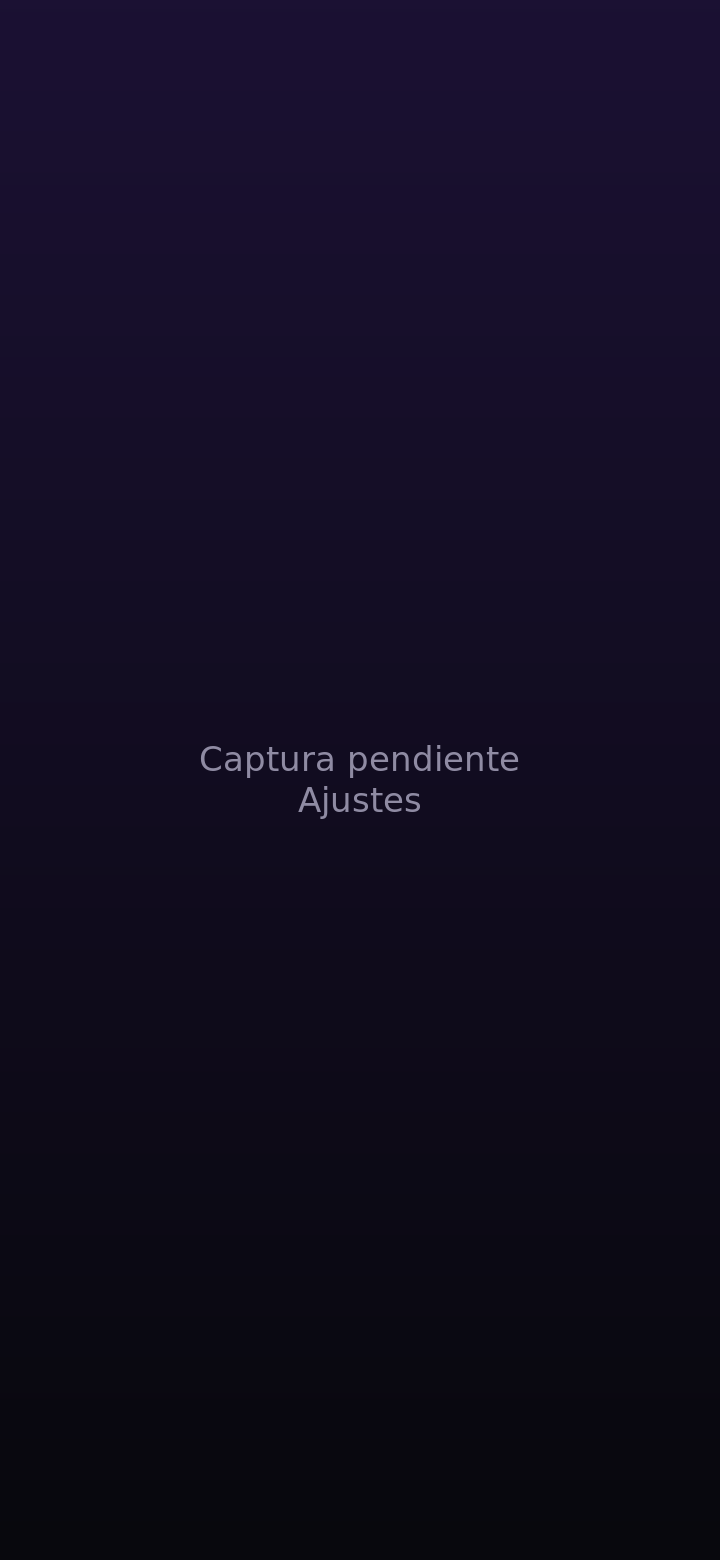
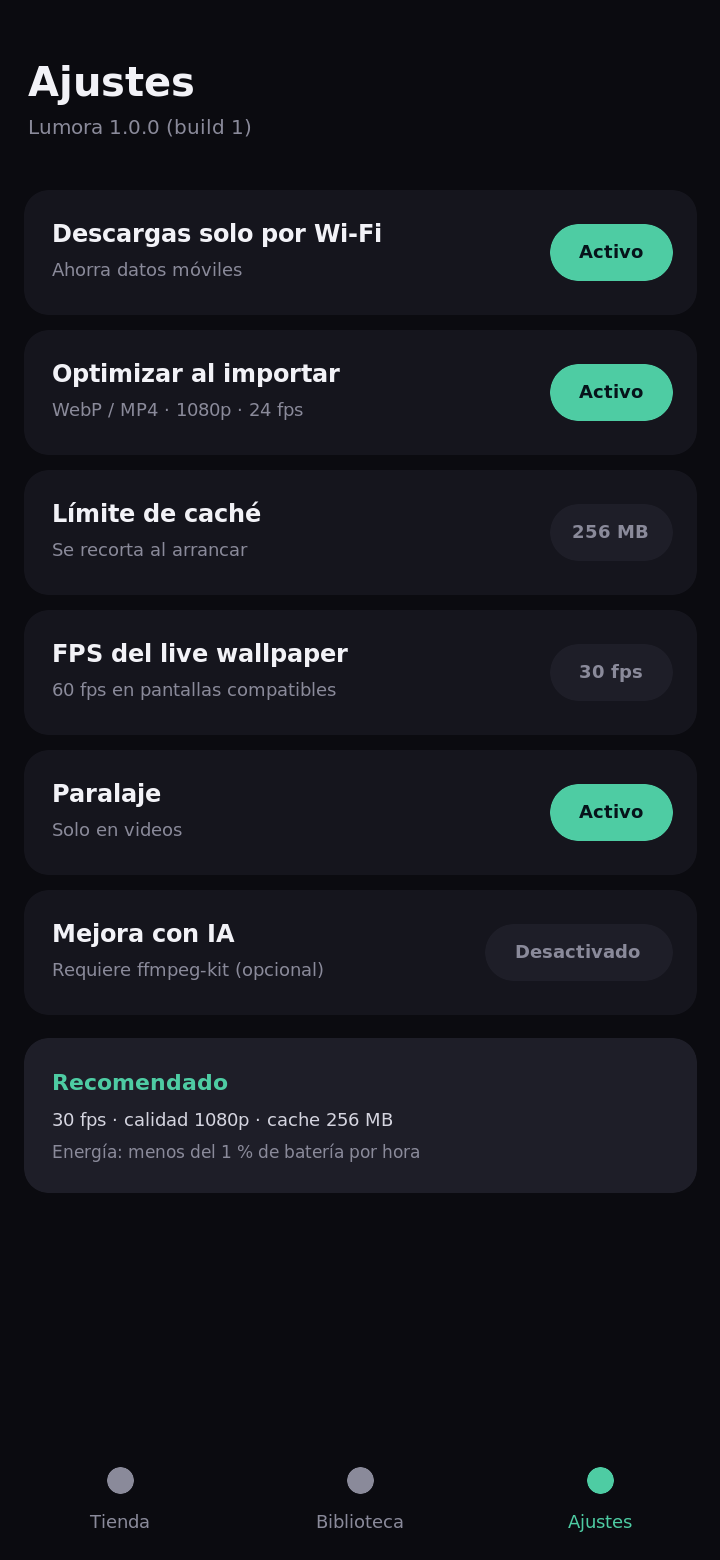
docs: real-content UI mockups for the four app screens

diff --git a/README.md b/README.md
@@ -83,7 +83,10 @@
 
 ## 🖼 Capturas
 
-> Placeholders — reemplázalos por capturas reales en `docs/assets/` (mismo nombre de archivo).
+> Mockups de la interfaz generados a partir del contenido real del catálogo (720 × 1560).
+> Para sustituirlos por capturas de un dispositivo, sobrescribe los archivos en `docs/assets/`
+> conservando el mismo nombre (`screenshot-store.png`, `screenshot-library.png`,
+> `screenshot-preview.png`, `screenshot-settings.png`).
 
 | Tienda | Biblioteca | Vista previa | Ajustes |
 |:---:|:---:|:---:|:---:|
